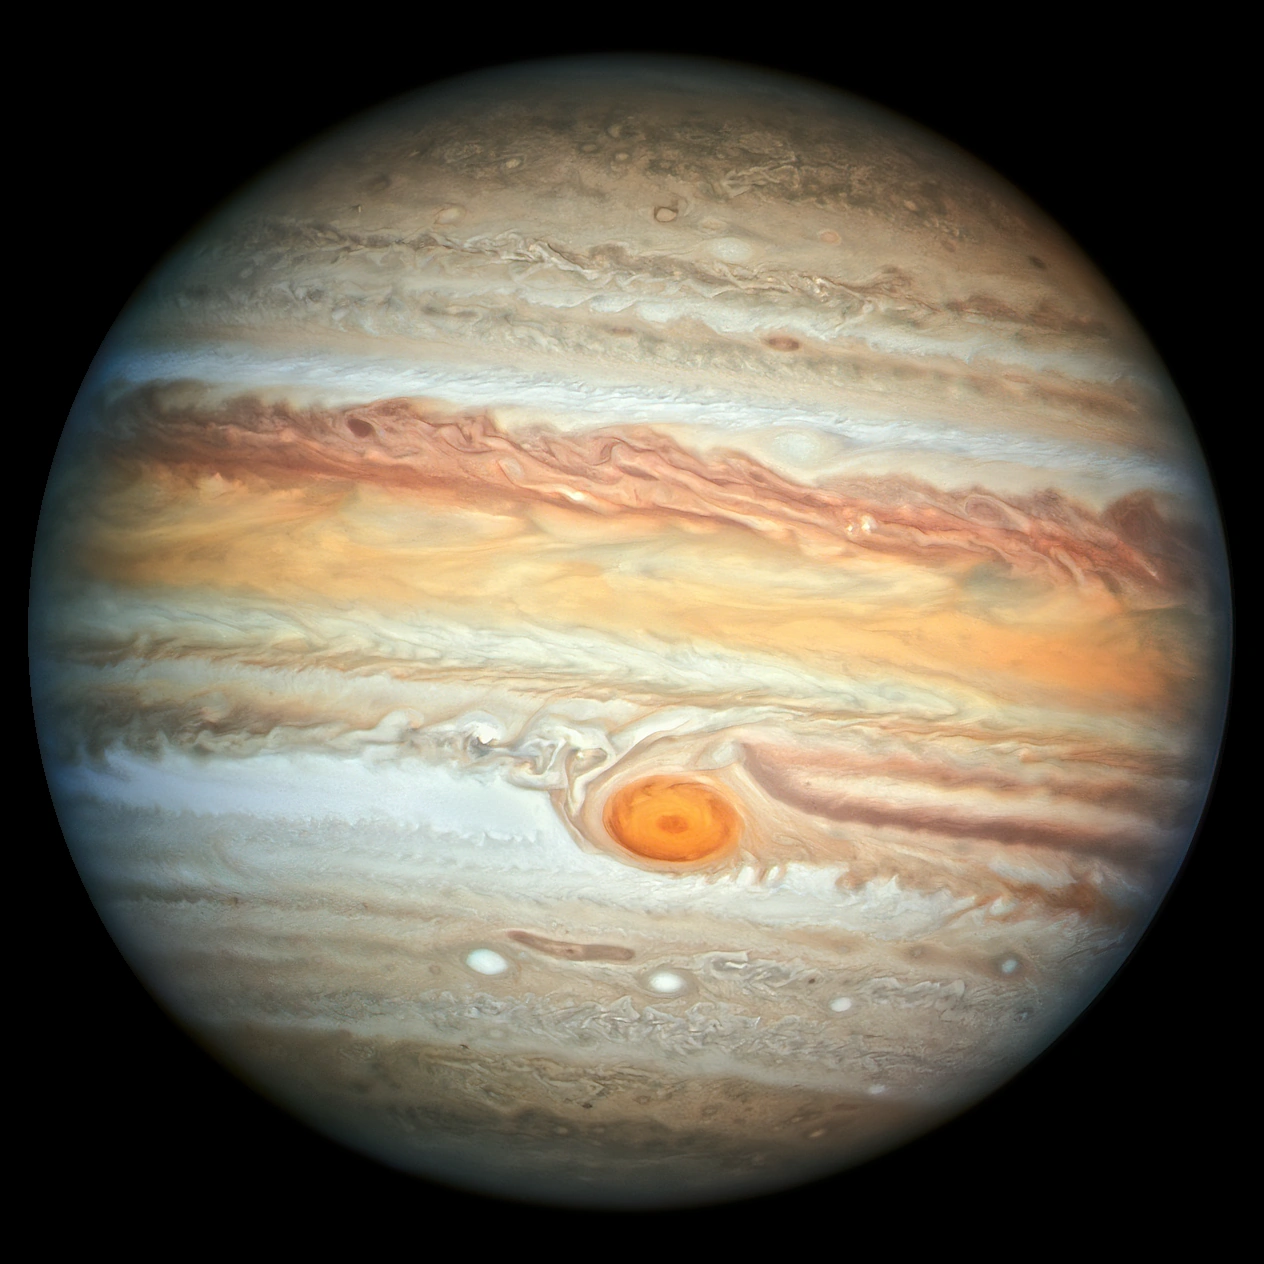
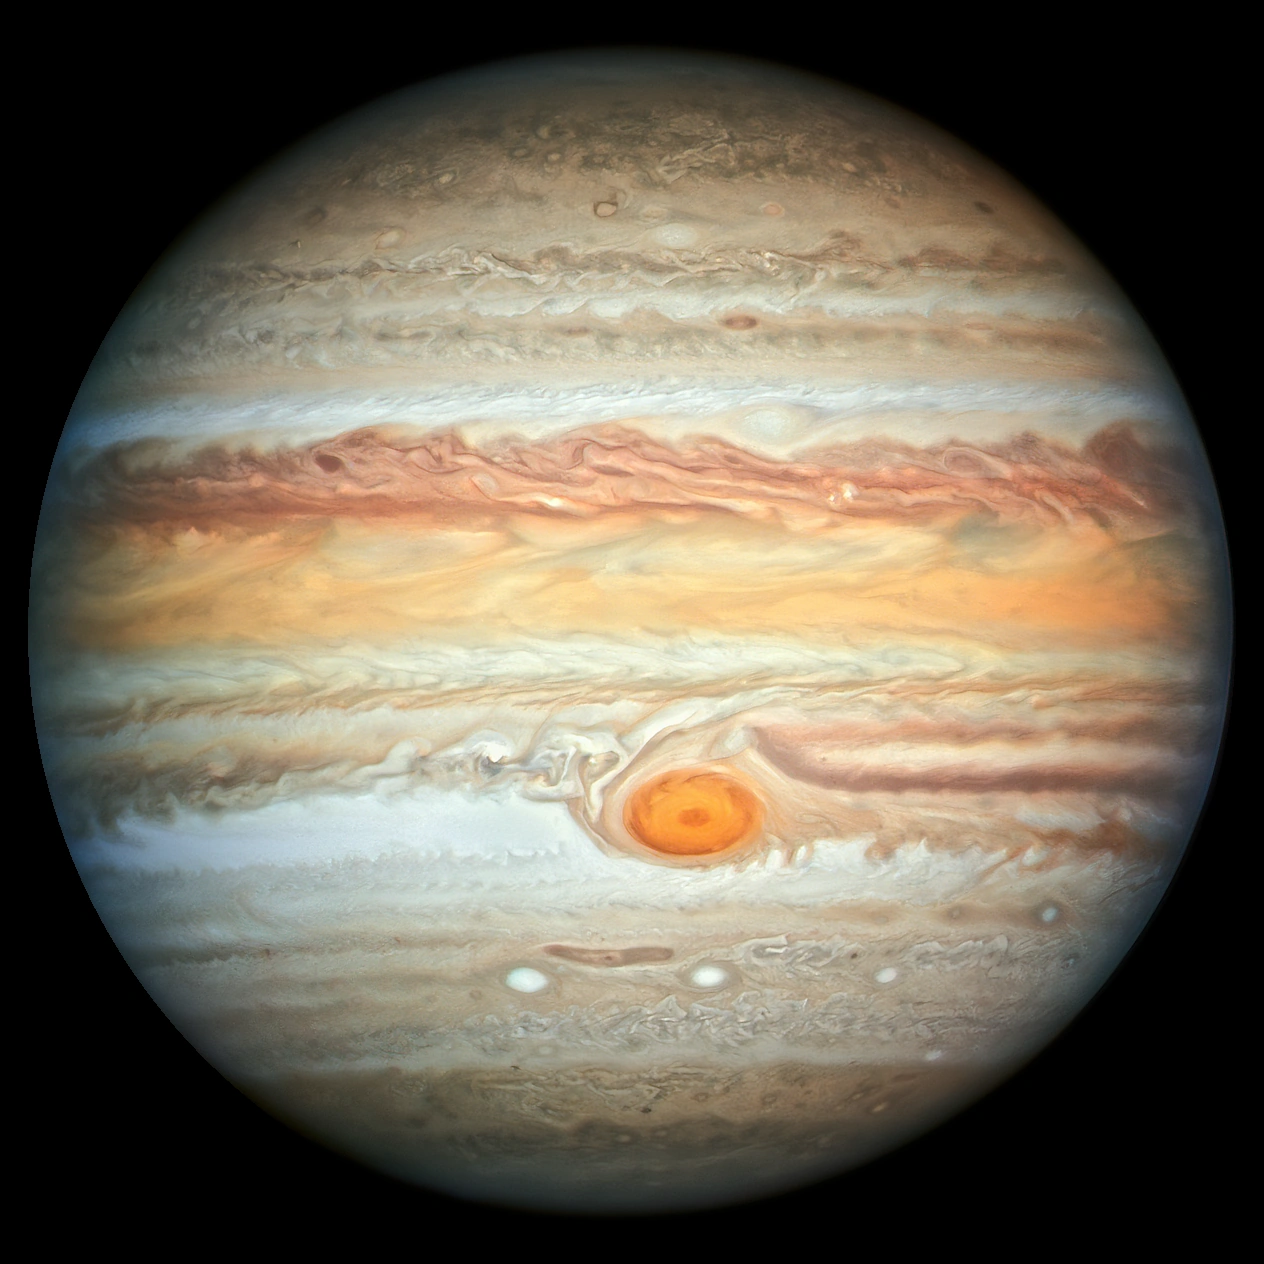
Review PR #61: Jupiter-Drehung ueber die Baender, ADR-Nachtrag
- Jupiter: drehung_grad -41,7 statt -49,3, bestimmt ueber die
  Korrelation symmetrischer Spaltenprofile (Restneigung im Ergebnis
  -0,34 Grad im Mittel); Mitte und Durchmesser neu gemessen, Beleg
  in Parameterdatei, bilder.json und data/roh/LIESMICH.md korrigiert.
- ADR-0003: Nachtrag 2026-10-27, tools/ dreht Pressebilder ohne
  senkrechte Achse per drehung_grad/spiegeln auf Planetennorden.
- Saturn: "Trabanten" statt "Monde" (GLOSSARY), Positionswinkel 6,8.
- jup_35: Durchmesser der Trabanten aus objekte.md 3.2.

Changed region(s): [[0.0309, 0.0926, 0.9565, 0.8948], [0.3394, 0.9256, 0.4011, 0.9565]]

diff --git a/data/roh/LIESMICH.md b/data/roh/LIESMICH.md
@@ -17,7 +17,7 @@ Nur diese Datei liegt im Repo (`.gitignore`: `data/roh/*`, `!data/roh/LIESMICH.m
   Scheibe gemessen (Halbwertskante): Mitte Pixel 998,0/979,25, Aequatordurchmesser 1374,4 px (17,51", 0,0127"/px). Verarbeitet durch `tools/bild_aufbereiten.py` mit `tools/parameter/mars_hst_20160512.json`.
[2 lines of base64/hex data omitted]
-  Die Pressefassung ist gedreht (Aequator 49,3 Grad gegen den Uhrzeigersinn ueber der Waagerechten); `tools/bild_aufbereiten.py` dreht um 49,3 Grad im Uhrzeigersinn. Im gedrehten Bild gemessen (Halbwertskante): Mitte Pixel 2108,6/2165,2, Aequatordurchmesser 2229,2 px (45,65", 0,0205"/px). Parameter: `tools/parameter/jupiter_hst_20190627.json`.
+  Die Pressefassung ist gedreht (Baender 41,7 Grad gegen den Uhrzeigersinn ueber der Waagerechten, bestimmt ueber Profil-Korrelation der Baender); `tools/bild_aufbereiten.py` dreht um 41,7 Grad im Uhrzeigersinn. Im gedrehten Bild gemessen (Halbwertskante): Mitte Pixel 2121,8/2175,7, Aequatordurchmesser 2210,4 px (45,65", 0,0207"/px). Parameter: `tools/parameter/jupiter_hst_20190627.json`.
[2 lines of base64/hex data omitted]
-  Vier Monde ausserhalb der Ringe (Pixel 1111/174, 1253/1000, 1325/376, 1690/675) entfernt die Maske. Ring um 0,85 Grad geneigt, `tools/bild_aufbereiten.py` dreht um 0,85 Grad im Uhrzeigersinn. Im gedrehten Bild gemessen: Mitte Pixel 904,3/561,6, Kugel aequatorial 456,8 px (18,11", 0,0396"/px), aeusserer Ringrand 1038,7 x 340,8 px (Verhaeltnis 2,274 zu Soll 2,269). Parameter: `tools/parameter/saturn_hst_20210912.json`.
+  Vier Trabanten ausserhalb der Ringe (Pixel 1111/174, 1253/1000, 1325/376, 1690/675) entfernt die Maske. Ring um 0,85 Grad geneigt, `tools/bild_aufbereiten.py` dreht um 0,85 Grad im Uhrzeigersinn. Im gedrehten Bild gemessen: Mitte Pixel 904,3/561,6, Kugel aequatorial 456,8 px (18,11", 0,0396"/px), aeusserer Ringrand 1038,7 x 340,8 px (Verhaeltnis 2,274 zu Soll 2,269). Parameter: `tools/parameter/saturn_hst_20210912.json`.

diff --git a/docs/adr/0003-datenformat.md b/docs/adr/0003-datenformat.md
@@ -18,6 +18,7 @@ Warum Kachelpyramide fuer den Mond: Das Mondbild muss bei 0,25"/px rund 7600 px 
 - Kacheln und skalierte Planetenbilder werden ausschliesslich von Skripten unter `tools/` aus den Rohbildern in `data/roh/` (gitignored) erzeugt; das Skript schreibt den Bildnachweis mit. Kein Bild ohne Eintrag in `bilder.json` (A-X3).
 - Bildformat der Kacheln und Planetenbilder: WebP verlustbehaftet mit hoher Qualitaet; JPEG als Reserve, falls WebP in `tools/` Probleme macht. Entscheidung beim ersten Kachel-Issue, Groessenziel A-X6 bleibt massgeblich.
 - Nordrichtung (A-D11, Nachtrag 2026-10-26, Entscheidung Herbert zu Issue #12): `norden_oben` heisst bei Planeten Planetennorden oben (Rotationsachse senkrecht, wie in den Hubble-Pressebildern), beim Mond Himmelsnorden oben. Planetenbilder werden dafuer nicht gedreht; die Zustaende haben keinen Zeitpunkt, der Positionswinkel der Achse zum Aufnahmezeitpunkt steht dokumentierend in `positionswinkel_achse_grad`.
+- Nachtrag 2026-10-27 (Issue #13): Pressebilder, deren Rotationsachse nicht senkrecht steht (Jupiter heic1914a um 41,7 Grad, Saturn heic2113c um 0,85 Grad), dreht `tools/bild_aufbereiten.py` per `drehung_grad` (und bei Bedarf `spiegeln`) auf Planetennorden oben, bikubisch in linearem Licht; Winkel und Beleg stehen in der Parameterdatei und im Feld `bearbeitung`. Der Winkel wird ueber die Baender bestimmt (Korrelation der Helligkeitsprofile zweier zur Mitte symmetrischer Spalten, Restneigung unter 1 Grad), bei Saturn ueber den Ringrand; die Randellipse allein ist bei der kleinen Abplattung zu ungenau. "Nicht gedreht" oben gilt fuer Bilder, deren Achse schon senkrecht steht.
 - Das Mondbild aus NASA SVS hat 0,643"/px (Durchmesser rund 2760 px); die Pyramide hat damit vorerst drei bis vier Stufen. Ein feineres Rendering spaeter aendert nur die Anzahl der Stufen, nicht das Format.
 
 ## Verworfene Optionen
